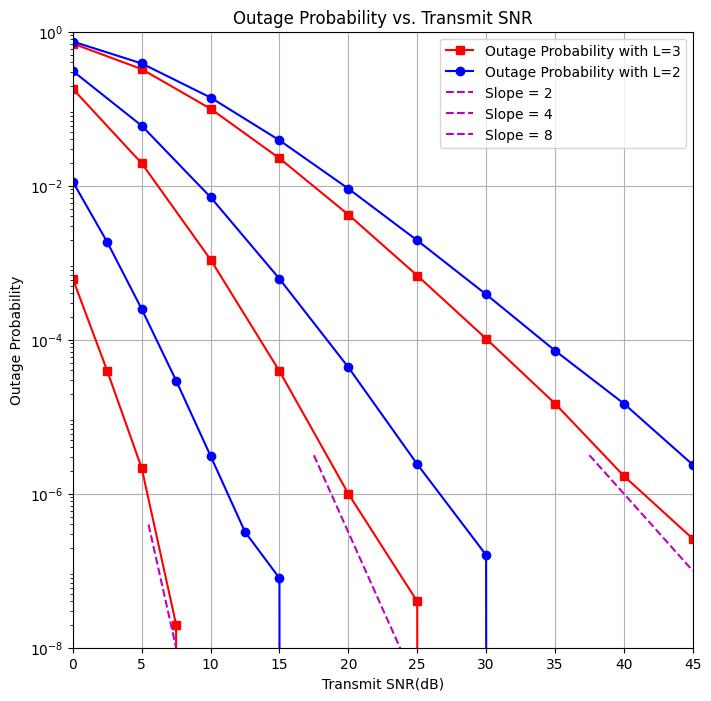
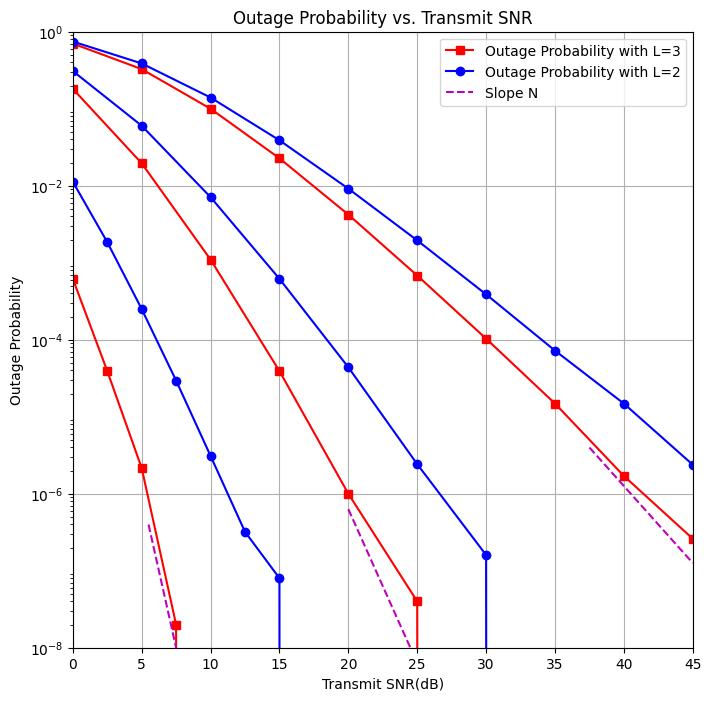
2024.08.13(THU)_v1

diff --git a/reproduce.py b/reproduce.py
@@ -4,12 +4,15 @@ import os
 
 
 # Add slopes N and (N+1)/2
-def plot_slope(N, x_range, y_intercept):
+def plot_slope(N, x_range, y_intercept, label):
     x = np.array(x_range)
     y_N = 10 ** ((-x * N) / 10 + y_intercept)
     y_half_N = 10 ** (-x * (N + 1) / 2 / 10)
+    if label is not None:
+        plt.plot(x, y_N, linestyle='--', color="m", label=f'{label}')
+    else:
+        plt.plot(x, y_N, linestyle='--', color="m")
 
-    plt.plot(x, y_N, linestyle='--', color="m", label=f'Slope = {N}')
     # plt.plot(x, y_half_N, linestyle=':', color=color, label=f'Slope = {(N + 1) / 2}')
 
 
@@ -37,9 +40,9 @@ def outage_prob_plot(fig_num):
         plt.plot(10 * np.log10(P_out_values_2_8[0]), P_out_values_2_8[1], 'bo-')
 
 
-        plot_slope(2, np.linspace(37.5, 45, 1000), 2)
-        plot_slope(4, np.linspace(17.5, 45, 1000), 1.5)
-        plot_slope(8, np.linspace(5.5, 45, 100), -2)
+        plot_slope(2, np.linspace(37.5, 45, 1000), 2.1, None)
+        plot_slope(4, np.linspace(20, 45, 1000), 1.8, None)
+        plot_slope(8, np.linspace(5.5, 45, 100), -2, "Slope N")
 
         plt.yscale('log', base=10)
         plt.yticks([10**-8, 10**-6, 10**-4, 10**-2, 10**0])
@@ -62,7 +65,7 @@ def outage_prob_plot(fig_num):
         plt.savefig(f"{fig_dir}", bbox_inches='tight')
         plt.show()
     elif fig_num == 2:
-        fig_name = "The outage probability versus the SNR_1e7"
+        fig_name = "The outage probability with optimal phase shift"
 
         opt_P_out_values_2 = np.load(f"./Curves/SC_opt_outage_prob_2.npy")
         opt_P_out_values_4 = np.load(f"./Curves/SC_opt_outage_prob_4.npy")
@@ -71,10 +74,10 @@ def outage_prob_plot(fig_num):
         plt.figure(figsize=(8, 8))
         plt.title('Outage Probability vs. Transmit SNR')
 
-        plt.plot(10 * np.log10(opt_P_out_values_2[0]), opt_P_out_values_2[1], 'm>-',
+        plt.plot(10 * np.log10(opt_P_out_values_2[0]), opt_P_out_values_2[1], 'm^--',
                  label=f'Optimal continuous phase-shift')
-        plt.plot(10 * np.log10(opt_P_out_values_4[0]), opt_P_out_values_4[1], 'mo-')
-        plt.plot(10 * np.log10(opt_P_out_values_8[0]), opt_P_out_values_8[1], 'm^-')
+        plt.plot(10 * np.log10(opt_P_out_values_4[0]), opt_P_out_values_4[1], 'm^--')
+        plt.plot(10 * np.log10(opt_P_out_values_8[0]), opt_P_out_values_8[1], 'm^--')
 
 
         plt.yscale('log', base=10)
@@ -97,3 +100,39 @@ def outage_prob_plot(fig_num):
 
         plt.savefig(f"{fig_dir}", bbox_inches='tight')
         plt.show()
+    elif fig_num == 3:
+        fig_name = "The outage probability with optimal fc phase shift"
+
+        opt_P_out_values_2 = np.load(f"./Curves/FC_opt_outage_prob_2.npy")
+        opt_P_out_values_4 = np.load(f"./Curves/FC_opt_outage_prob_4.npy")
+        opt_P_out_values_8 = np.load(f"./Curves/FC_opt_outage_prob_8.npy")
+
+        plt.figure(figsize=(8, 8))
+        plt.title('Outage Probability vs. Transmit SNR')
+
+        plt.plot(10 * np.log10(opt_P_out_values_2[0]), opt_P_out_values_2[1], 'm^--',
+                 label=f'Optimal continuous phase-shift')
+        plt.plot(10 * np.log10(opt_P_out_values_4[0]), opt_P_out_values_4[1], 'm^--')
+        plt.plot(10 * np.log10(opt_P_out_values_8[0]), opt_P_out_values_8[1], 'm^--')
+
+        plt.yscale('log', base=10)
+        plt.yticks([10 ** -8, 10 ** -6, 10 ** -4, 10 ** -2, 10 ** 0])
+        plt.xlim(0, 45)
+        plt.ylim(10 ** -8, 10 ** 0)
+        plt.xlabel('Transmit SNR(dB)')
+        plt.ylabel('Outage Probability')
+        plt.legend()
+        plt.grid(True)
+
+        # save the figure
+        fig_dir = f"./Figures"
+
+        if not os.path.exists(fig_dir):
+            os.makedirs(fig_dir)
+
+        save_name = f"{fig_name}.jpg"
+        fig_dir = f"{fig_dir}/{save_name}"
+
+        plt.savefig(f"{fig_dir}", bbox_inches='tight')
+        plt.show()
+

diff --git a/SystemModel.py b/SystemModel.py
@@ -91,7 +91,8 @@ def opt_sc_outage_probability(N, P, delta, eta, Omega_S, Omega_I, threshold, rho
         pbar.set_description(f"Outage simulation when N={N}")
         # 변수 초기화
         h_SI, h_ID, _, _ = init_system(N, Omega_S, Omega_I, delta)
-        Phi = np.diag(np.exp(1j*np.zeros(N)))
+        Phi = np.diag(np.exp(1j * np.zeros(N)))
+        # Phi = np.diag(np.exp(-np.angle(h_SI * h_ID)))
         g_n, _ = SNR_calc(P, delta, eta, h_SI, Phi, h_ID, Omega_S, Omega_I)
 
         G_N = np.sum(g_n)
@@ -106,33 +107,34 @@ def opt_sc_outage_probability(N, P, delta, eta, Omega_S, Omega_I, threshold, rho
 
 
 def calc_opt_fc_phase(h_SI, h_ID):
-    u_SI = h_SI / np.linalg.norm(h_SI)
-    u_ID = h_ID / np.linalg.norm(h_ID)
+    h_SI = h_SI / np.linalg.norm(h_SI)
+    h_ID = h_ID / np.linalg.norm(h_ID)
 
-    A = np.outer(u_SI, u_ID.conjugate().T) + np.outer(u_SI, u_ID.conjugate().T).T
+    S = np.outer(h_ID.conjugate().T, h_SI.conjugate().T) + np.outer(h_SI.conjugate(), h_ID.conjugate())
 
     # Takagi factorization
-    a = svd(A)
+    a = svd(S)
 
     Q = a[0]
     Sigma = a[1]
     QT = a[2].T
 
-    FC_phi_opt = Q @ QT
+    Phi = Q @ QT
 
-    return FC_phi_opt
+    return Phi
 
 
 def opt_fc_outage_probability(N, P, delta, eta, Omega_S, Omega_I, threshold, rho):
     prob_count = 0
 
-    num_simulations = int(5e+6)
+    num_simulations = int(1e+5)
     pbar = tqdm(range(num_simulations))
     for i in pbar:
         pbar.set_description(f"Outage simulation when N={N}")
         # 변수 초기화
         h_SI, h_ID, _, _ = init_system(N, Omega_S, Omega_I, delta)
-        Phi = generate_opt_sc_phase(h_SI, h_ID)
+        # Phi = calc_opt_fc_phase(h_SI, h_ID)
+        Phi = np.exp(1j * np.zeros(N * N)).reshape(N, N)
         g_n, _ = SNR_calc(P, delta, eta, h_SI, Phi, h_ID, Omega_S, Omega_I)
 
         G_N = np.sum(g_n)
@@ -143,4 +145,5 @@ def opt_fc_outage_probability(N, P, delta, eta, Omega_S, Omega_I, threshold, rho
 
     # Outage probability
     P_G_N = prob_count / num_simulations
+
     return P_G_N

diff --git a/main.py b/main.py
@@ -29,17 +29,15 @@ epsilon_0 = (2 ** R0 - 1) / (eta ** 2 * Omega_S * Omega_I)
 
 rho_values = np.logspace(0, 4.5, 10)
 
-opt_sc_P_out_values_2 = np.array(
-    [opt_sc_outage_probability(4, P, delta, eta, Omega_S, Omega_I, epsilon_0, rho) for rho in rho_values])
+opt_fc_P_out_values_4 = np.array(
+    [opt_fc_outage_probability(4, P, delta, eta, Omega_S, Omega_I, epsilon_0, rho) for rho in rho_values])
+opt_P_out_values_4 = np.load(f"./Curves/SC_opt_outage_prob_4.npy")
 
 plt.figure(figsize=(8, 8))
 plt.title('Outage Probability vs. Transmit SNR')
 
-P_out_values_3_2 = np.array(
-    [outage_probability(3, 4, P, delta, eta, Omega_S, Omega_I, epsilon_0, rho) for rho in rho_values])
-
-plt.plot(10 * np.log10(rho_values), opt_sc_P_out_values_2, 'rs-', label=f'Optimal Outage Probability')
-plt.plot(10 * np.log10(rho_values), P_out_values_3_2, 'bo-', label=f'Outage Probability with L=3')
+plt.plot(10 * np.log10(rho_values), opt_fc_P_out_values_4, 'rs-', label=f'Fully-connected Outage Probability with N=4')
+plt.plot(10 * np.log10(rho_values), opt_P_out_values_4[1], 'b--', label=f'Single-connected Outage Probability')
 
 plt.yscale('log', base=10)
 plt.yticks([10 ** -8, 10 ** -6, 10 ** -4, 10 ** -2, 10 ** 0])

diff --git a/simulations.py b/simulations.py
@@ -86,3 +86,5 @@ def opt_fc_outage_prob_simulation(Omega_S, Omega_I, P, eta, delta, epsilon_0):
     np.save(f"./Curves/FC_opt_outage_prob_{2}", np.array([rho_values, opt_fc_P_out_values_2]))
     np.save(f"./Curves/FC_opt_outage_prob_{4}", np.array([rho_values, opt_fc_P_out_values_4]))
     np.save(f"./Curves/FC_opt_outage_prob_{8}", np.array([narrow_rho_values, opt_fc_P_out_values_8]))
+
+
